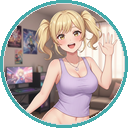
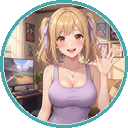
Replace character art with new Gemini-generated JPG images
- Remove old PNG source images, add new JPG source images
- Reprocess all 16 portraits with background removal from new sources
- Update profile pics (pose 1) and circular avatars for all 4 characters
- Update process_portraits.py to reference new JPG filenames

https://claude.ai/code/session_01Ur8LfxAd5RAbomf1G6WwJk

diff --git a/process_portraits.py b/process_portraits.py
@@ -1,7 +1,7 @@
 #!/usr/bin/env python3
 """Remove backgrounds from Gemini-generated character portraits.
 
-Reads 16 source images named "Character N.png" from game/images/characters/,
+Reads 16 source JPG images from game/images/characters/,
 removes backgrounds using rembg, crops to 3:5 aspect ratio, resizes to
 360x600, and saves as character_n.png in the portraits directory.
 """
@@ -20,22 +20,22 @@ PORTRAIT_W, PORTRAIT_H = 360, 600
 # Source filename → output filename mapping
 # Source: "Character N.png", Output: "character_n.png"
 PORTRAITS = [
-    ("Mallory 1.png", "mallory_1.png"),
-    ("Mallory 2.png", "mallory_2.png"),
-    ("Mallory 3.png", "mallory_3.png"),
-    ("Mallory 4.png", "mallory_4.png"),
-    ("Rye 1.png", "rye_1.png"),
-    ("Rye 2.png", "rye_2.png"),
-    ("Rye 3.png", "rye_3.png"),
-    ("Rye 4.png", "rye_4.png"),
-    ("Demetria 1.png", "demitria_1.png"),
-    ("Demetria 2.png", "demitria_2.png"),
-    ("Demetria 3.png", "demitria_3.png"),
-    ("Demetria 4.png", "demitria_4.png"),
-    ("Gabby 1.png", "gabby_1.png"),
-    ("Gabby 2.png", "gabby_2.png"),
-    ("Gabby 3.png", "gabby_3.png"),
-    ("Gabby 4.png", "gabby_4.png"),
+    ("Mallroy1.jpg", "mallory_1.png"),
+    ("mallory2.jpg", "mallory_2.png"),
+    ("mallory3.jpg", "mallory_3.png"),
+    ("mallory4.jpg", "mallory_4.png"),
+    ("Rye1.jpg", "rye_1.png"),
+    ("rye2.jpg", "rye_2.png"),
+    ("rye3.jpg", "rye_3.png"),
+    ("rye4.jpg", "rye_4.png"),
+    ("Demetria.jpg", "demitria_1.png"),
+    ("Demetria2.jpg", "demitria_2.png"),
+    ("Demetria3.jpg", "demitria_3.png"),
+    ("Demetria4.jpg", "demitria_4.png"),
+    ("Gabby1.jpg", "gabby_1.png"),
+    ("Gabby2.jpg", "gabby_2.png"),
+    ("Gabby3.jpg", "gabby_3.png"),
+    ("Gabby4.jpg", "gabby_4.png"),
 ]
 
 
